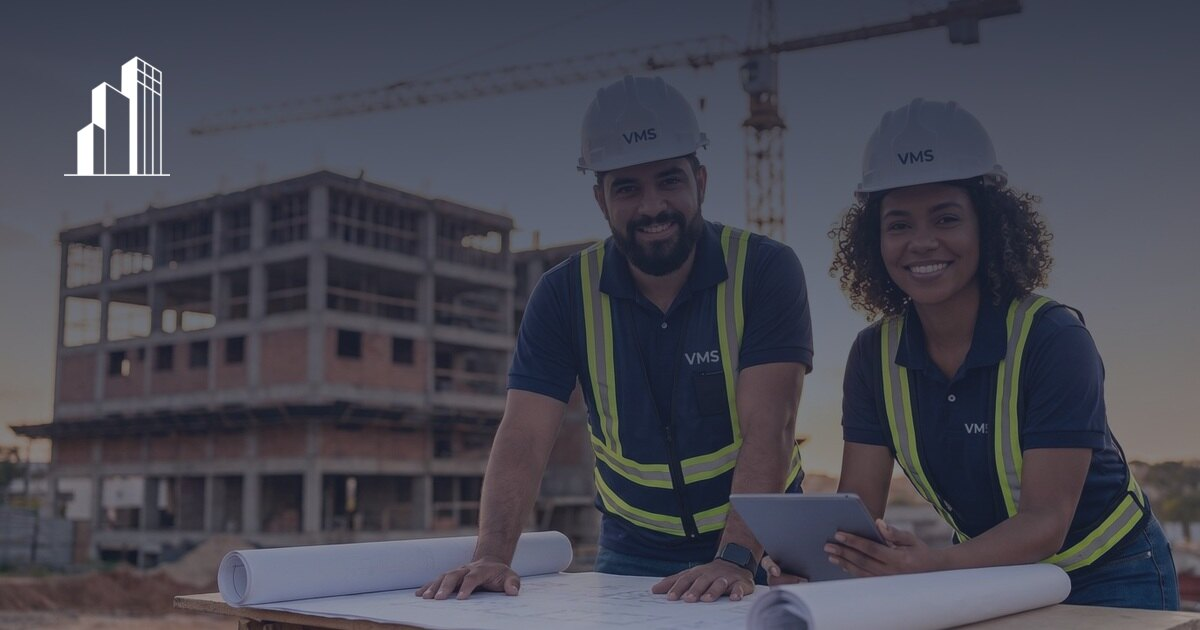
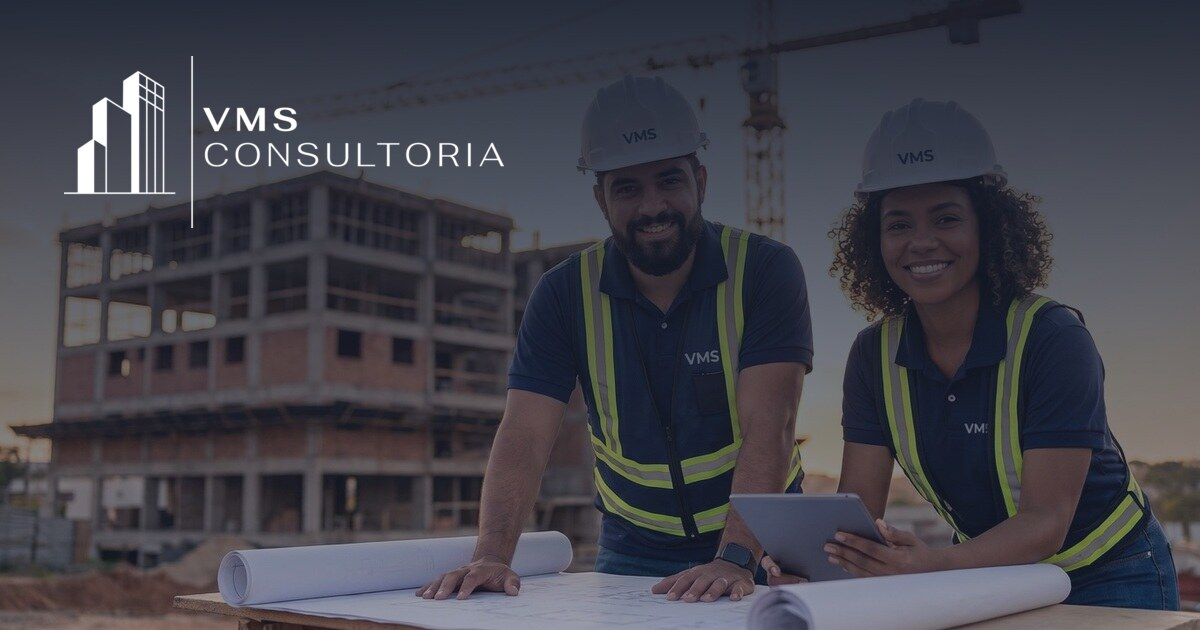
Add files via upload

Changed region(s): [[0.0617, 0.0905, 0.4317, 0.3317]]

diff --git a/engenharia.html b/engenharia.html
@@ -7,7 +7,7 @@
 <meta property="og:type" content="website">
 <meta property="og:site_name" content="VMS Consultoria &amp; Engenharia">
 <meta property="og:title" content="VMS Engenharia de Obras — planejamento, gerenciamento e medição">
-<meta property="og:description" content="Viabilidade, planejamento, orçamento, gerenciamento e medição de obras — com o andamento físico no Portal VMS.">
+<meta property="og:description" content="Planejamento, orçamento, gerenciamento e medição — a sua obra no prazo.">
 <meta property="og:image" content="https://www.vmsconsultoria.com/og.jpg">
 <meta property="og:url" content="https://www.vmsconsultoria.com/engenharia.html">
 <meta name="twitter:card" content="summary_large_image">

diff --git a/index.html b/index.html
@@ -7,7 +7,7 @@
 <meta property="og:type" content="website">
 <meta property="og:site_name" content="VMS Consultoria &amp; Engenharia">
 <meta property="og:title" content="VMS Consultoria &amp; Engenharia — fiscal e engenharia de obras">
-<meta property="og:description" content="Gestão fiscal (ISS/INSS) e engenharia de obras para construtoras e incorporadoras. Acompanhe cada resultado pelo Portal VMS.">
+<meta property="og:description" content="Para construtoras e incorporadoras: ISS, INSS e gestão de obras no mesmo lugar.">
 <meta property="og:image" content="https://www.vmsconsultoria.com/og.jpg">
 <meta property="og:url" content="https://www.vmsconsultoria.com/">
 <meta name="twitter:card" content="summary_large_image">

diff --git a/fiscal.html b/fiscal.html
@@ -7,7 +7,7 @@
 <meta property="og:type" content="website">
 <meta property="og:site_name" content="VMS Consultoria &amp; Engenharia">
 <meta property="og:title" content="VMS Consultoria Fiscal — ISS, INSS, isenção e Habite-se">
-<meta property="og:description" content="Gestão fiscal e previdenciária de obras: ISS, INSS, isenção, Habite-se e CND — acompanhada pelo Portal VMS.">
+<meta property="og:description" content="ISS, INSS, isenção e Habite-se: a parte fiscal da sua obra sob controle.">
 <meta property="og:image" content="https://www.vmsconsultoria.com/og.jpg">
 <meta property="og:url" content="https://www.vmsconsultoria.com/fiscal.html">
 <meta name="twitter:card" content="summary_large_image">
